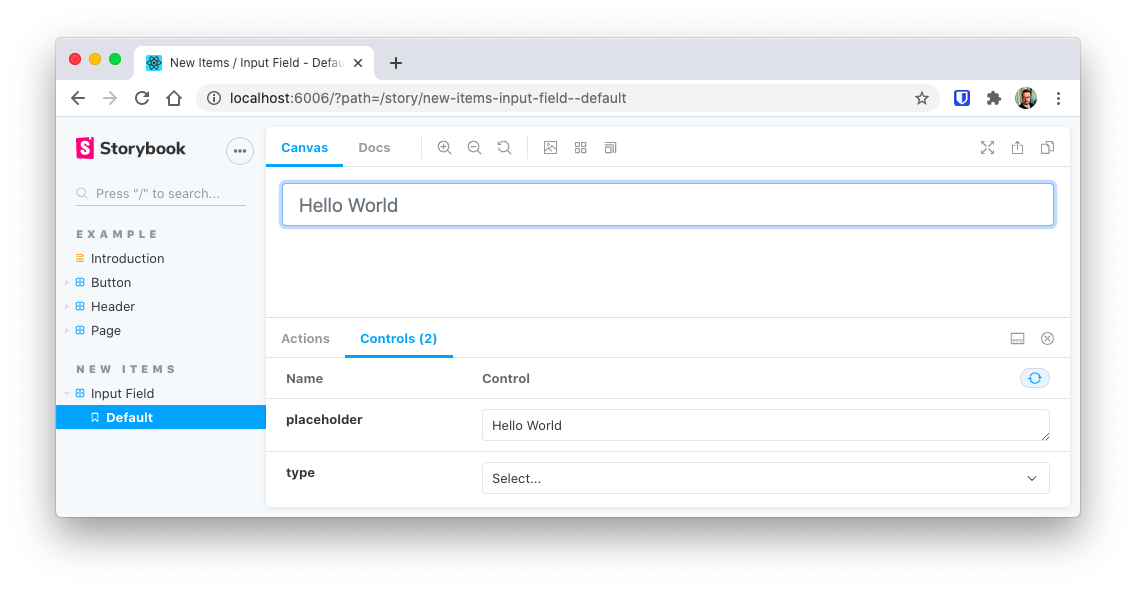
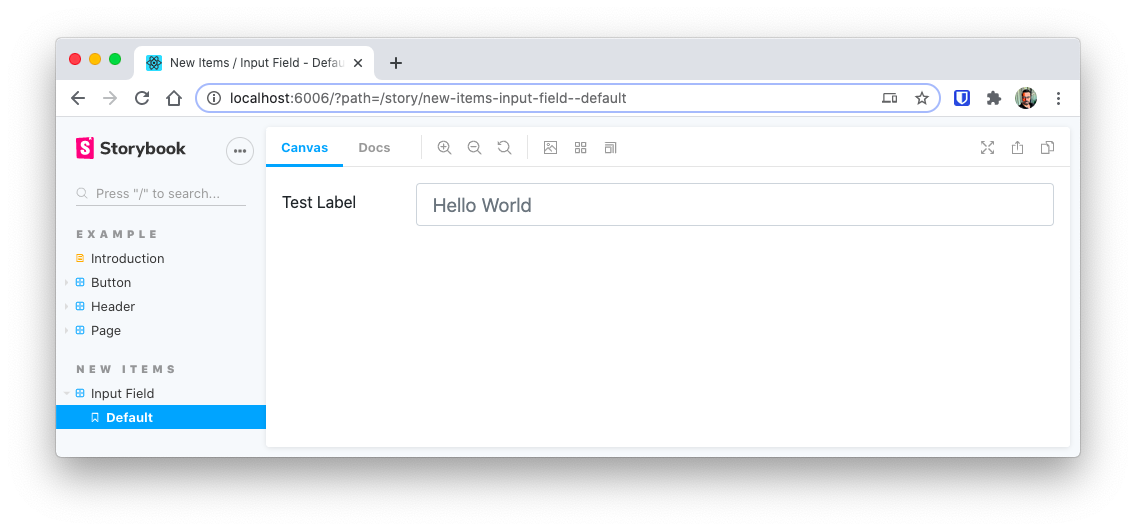
Adding decorators and argTypes on the storybook article

diff --git a/posts/react-storybook-intro-and-setup/index.md b/posts/react-storybook-intro-and-setup/index.md
@@ -15,9 +15,13 @@ That's where [Storybook](https://storybook.js.org/) enters.
 
 Storybook is a development environment and playground for creating UI components in an isolated environment **inside** your React (or Angular or Vue o Svelte) project but **outside** your application.
 
-This means that you can develop your components, style them and see the graphical outcome before you integrate them into your application. I can't think on something more useful.
+This means that you can develop your components, style them and see the graphical outcome before you integrate them into your application.
 
-Take a look at the [official documentation](https://storybook.js.org/docs/react/get-started/introduction) video on how Storybook allows you to review components in an isolated environment:
+...I can't think on something more useful.
+
+<video autoplay="" muted="" playsinline="" loop="" style="min-width: 50%; max-width: 350px; display: block; margin: 0 auto"><source src="https://media.giphy.com/media/108lJruWBp7EBO/giphy.mp4" type="video/mp4"></video>
+
+Take a look at the video from the [official documentation](https://storybook.js.org/docs/react/get-started/introduction) on how Storybook allows you to review components in an isolated environment:
 
 <video autoplay="" muted="" playsinline="" loop="" style="max-width: 100%"><source src="https://storybook.js.org/7e71705d211e17a2967606c49059e891/storybook-hero-video-optimized.mp4" type="video/mp4"></video>
 
@@ -43,6 +47,7 @@ In this article I'm going to give you a brief introduction to [Storybook](https:
 - [Global parameters](#global-parammeters)
 - [Adding external style sheets](#adding-external-style-sheets)
 - [Upgrading Storybook](#upgrading-storybook)
+- [Decorators](#decorators)
 - [Final toughs](#final-toughs)
 
 ## Project setup
@@ -60,32 +65,6 @@ yarn create react-app .
 ![](yarn-create-react-app.png)
 
 This will generate the typical React project **files**:
-
-```bash
-$ tree -I node_modules
-.
-├── README.md
-├── package.json
-├── public
-│   ├── favicon.ico
-│   ├── index.html
-│   ├── logo192.png
-│   ├── logo512.png
-│   ├── manifest.json
-│   └── robots.txt
-├── src
-│   ├── App.css
-│   ├── App.js
-│   ├── App.test.js
-│   ├── index.css
-│   ├── index.js
-│   ├── logo.svg
-│   ├── serviceWorker.js
-│   ├── setupTests.js
-└── yarn.lock
-
-4 directories, 35 files
-```
 
 ![](tree-project-start.png)
 
@@ -130,11 +109,13 @@ yarn storybook
 
 ![](yarn-run-storybook.png)
 
-This will start a **new development server** (not the same one as the react's one), that you can access in port `6006`, showing the **demo** stories that `npm sb init` created:
+This will start a **new development server** (not the same one as the react's one), that you can access on port `6006`, showing the **demo** stories that `npm sb init` created:
 
 ![](storybook-first-start.png)
 
-And you can browse individual stories by clicking on the names of each one on the left sidebar. For instance this is how the **example** story `src/stories/Header.stories.js` looks in Storybook:
+Notice how Storybook created 3 **example** stories for us, and an _Introduction_ with some shortcuts.
+
+And you can browse those test stories by clicking on the names of each one on the left sidebar. For instance this is how the **example** story `src/stories/Header.stories.js` looks in Storybook:
 
 ![](browse-individual-story.png)
 
@@ -170,7 +151,9 @@ src/stories
 1 directory, 18 files
 ```
 
-This files where created by the `npx sb init` command and the contain a bunch of components and stories. For instance, there a component called **Button** created in `src/stories/Button.js` with the corresponding story in `src/stories/Button.stories.js`
+This files where created by the `npx sb init` command and the contain a bunch of components and stories.
+
+For instance, there is a component called **Button** created in `src/stories/Button.js` with the corresponding story in `src/stories/Button.stories.js`
 
 This is the component:
 
@@ -235,7 +218,7 @@ Button.defaultProps = {
 
 In this particular component, there is also a `.css` file that corresponds to the styles apply to it. This means that story book is capable of displaying the component **with its styles**.
 
-And this are the stories that test or display that component:
+And this **are** the stories that test or display that component:
 
 ```javascript
 // src/stories/Button.stories.js
@@ -290,6 +273,8 @@ So, in conclusion:
 - Each `.stories.js` are the stories that test or display the component
 - A component can include a `.css` file and it will be displayed
 
+> Storybook looks for `.stories.js` files because that's how its configured in `.storybook/main.js`. You can instruct Storybook to look of another sufix or prefix by configuring the `stories` setting in that file.
+
 ## Create our first story
 
 Just for fun, lets create a component that displays an `<input>` field with minal styling.
@@ -336,9 +321,9 @@ The style file is just a simple CSS file with the custom styles of the component
 }
 ```
 
-Take into account that if your project uses external styles like [Bootstrap](https://getbootstrap.com), [Material](https://material.io/), [Tailwind](https://tailwindcss.com), [Bulma](https://bulma.io), etc. This have to be added in the configuration file which will touch upon latter.
+> Take into account that if your project uses external styles like [Bootstrap](https://getbootstrap.com), [Material](https://material.io/), [Tailwind](https://tailwindcss.com), [Bulma](https://bulma.io), etc. This have to be added in the configuration file which I will touch upon latter.
 
-The component really has noting special. Its just an input that receives the `placeholder` and `type` _props_, and output the corresponding Html with the stiles that we created a second ago:
+The component really has noting special. Its just an input that receives the `placeholder` and `type` _props_, and output the corresponding HTML With the stiles that we created a second ago:
 
 ```javascript
 // src/components/input-field/input-field.js
@@ -364,7 +349,7 @@ export default InputField
 
 Notice that there is a _class_ called `form-control` that is not included in the `.css` file. We'll be working with that class latter.
 
-Finally, we create the stories!
+**Finally, we create the stories!**
 
 Quoting the Storybook documentation, "The key ingredients (of a story) are the [default export](https://developer.mozilla.org/en-US/docs/Web/JavaScript/Reference/Statements/export#Using_the_default_export) that describes the component, and [named exports](https://developer.mozilla.org/en-US/docs/Web/JavaScript/Reference/Statements/export#Using_named_exports) that describe the stories."
 
@@ -388,7 +373,7 @@ export const InputFieldBig = () => <InputField type="big" />
 
 In the previous _stories_ example, the `default` object contains information on which component this story belongs to (`InputField`) and where in the menu should it be placed.
 
-The _consts_ `InputFieldDefault`, `InputFieldSmall`, and `InputFieldBig` are the stories we'll be displayin in storybook.
+The _const's_ `InputFieldDefault`, `InputFieldSmall`, and `InputFieldBig` are the stories we'll be displaying in storybook.
 
 Here are the results in Storybook:
 
@@ -396,7 +381,9 @@ Here are the results in Storybook:
 
 ![](input-field-big.png)
 
-Notice how Storybook converted the _camelCased_ words in actual sentences on the sidebar. Pe. It changed `InputFieldDefault` to _Input Field Default_. **Take this into account when naming your stories**.
+Notice how Storybook converted the _camelCased_ words in actual sentences on the sidebar. For instance, it changed `InputFieldDefault` to _Input Field Default_. **Take this into account when naming your stories**.
+
+**You now have enough information to create your stories in Storybook**. But there are still, are a couple of additional
 
 ## Using templates and args
 
@@ -442,11 +429,40 @@ InputFieldBig.args = {
 }
 ```
 
-This might seem a little over complicated if you are using only 3 stories. But in the next section we'll see how using `args` allows you to change a component `prop` using controls.
+This might seem a little over complicated just by looking at how to code got bigger but the result is the same. But there are several advantages of using this approach:
+
+- You can **reuse** parameters from story to story
+- Combined with `PropTypes` allow you to change `prop` values (`args`) interactively (Next section)
+- You can configure the template, an those options will get passed down to the stories
+
+You can also pass `args` in the default export like so:
+
+```javascript {4-6}
+export default {
+  title: "New Items/Input Field",
+  component: InputField,
+  args: {
+    type: "small",
+  },
+}
+```
+
+Which is a nice alternative.
+
+In the next section we'll see how using `args` allows you to change a component `prop` using controls.
 
 ## Using controls
 
-To use controls, you need to use `templates` and `args` on your stories. But you also need to use [PropTypes](https://www.npmjs.com/package/prop-types) in you components.
+To change the stories `args` interactively, you have 2 options:
+
+- Use `PropTypes` in the component
+- Use the `argTypes` in the default export
+
+Let's start by using `PropTypes`
+
+### `PropTypes` for Interactive controls
+
+I actually prefer this option, since this way, by using comments, you also get [documentation on](https://storybook.js.org/docs/react/api/argtypes) your stories.
 
 For instance, in the `InputField` component, we could specify that the `type` prop is one of "normal", "big" or "small" by using the `PropTypes.oneOf` option. And that the `placeholder` is of type `string`.
 
@@ -502,11 +518,37 @@ export const Default = Template.bind({})
 Default.args = { placeholder: "Hello World" }
 ```
 
-And let Storybook display the user a _Controls_ panel where you can change the settings
+### By using `argTypes`
+
+This is an excellent option too. Specially if you would like to manage all of your storybook settings in the **story's** `export default` object. 
+
+The downsize of this method, is that you would have to add more code to your stories instead of your components, and in the case of a refactor **you would have to make changes in both parts** and not only on your component.
+
+> I like to keep my stories as small as possible.
+
+```javascript
+// src/components/input-field/input-field.stories.js
+...
+export default {
+  title: "New Items/Input Field",
+  component: InputField,
+  argTypes: {
+    type: { control: "text" }
+  }
+}
+...
+```
+
+There are extra options on the `argTypes`, that let you _fine control_ the type and labels of the control. You can take a look at the [documentation](https://storybook.js.org/docs/react/api/argtypes) to find out about them.
+
+### Using the controls
+
+This is the great part. Storybook will display the user a _Controls_ panel where you can change the settings
 
 ![](using-controls.png)
 
 > If you don't see the panel, then type the key `A` on your keyboard, or in the menu next to the Storybook logo, slect **Show Addons**
+
 
 ## Global Parameters
 
@@ -549,6 +591,91 @@ If I wanted to do this change only on one group of _stories_ then I would have t
 ```javascript {9-13}
 // src/components/input-field/input-field.stories.js
 
+import React from "react"
+import InputField from "./input-field"
+
+export default {
+  title: "New Items/Input Field",
+  component: InputField,
+  parameters: {
+    backgrounds: {
+      values: [{ name: "WhiteBg", value: "#ffffff" }],
+    },
+  },
+}
+
+const Template = args => <InputField {...args} />
+
+export const Default = Template.bind({})
+Default.args = { placeholder: "Hello World" }
+```
+
+## Action feedback
+
+There are times where your component receives a callback and you need to know if that callback is gettings executed and how the output of tha callback looks.
+
+Well... Storybook has a solution for that also. Its called [Actions](https://storybook.js.org/docs/react/essentials/actions) and it allows you to specifya `args` that are actually functions that will get called.
+
+To tests actions, lets add a `onFocus` parameter to our `<InputField />`
+
+```javascript {3,11}
+// src/components/input-field/input-field.js
+// ...
+const InputField = ({ placeholder, type, onFocus, ...props }) => {
+  const lPlacehoder = placeholder || "Text Input"
+  const lType = type || "normal"
+  return (
+    <input
+      type="text"
+      className={`form-control input-field ${lType}`}
+      placeholder={lPlacehoder}
+      onFocus={onFocus}
+      {...props}
+    />
+  )
+}
+// ...
+```
+
+And on our `.stories.js` file we have to add a new element in our `defaults`:
+
+```javascript {11}
+// src/components/input-field/input-field.stories.js
+// ...
+export default {
+  title: "New Items/Input Field",
+  component: InputField,
+  parameters: {
+    backgrounds: {
+      values: [{ name: "WhiteBg", value: "#ffffff" }],
+    },
+  },
+  argTypes: { onFocus: { action: "Focused..." } },
+}
+// ...
+```
+
+What this does is that in our **component** we now receive a new _function_ parameter that well get triggered when the field gets focused (we called the new parameter and as the action: `onFocus`).
+
+Then, in our **story** we configured _Storybook_ to show the `Focused...` paragraph when the action `onFocused` got triggered:
+
+![](on-focus-input-field.png)
+
+And now we can see if our actions are getting triggered correctly.
+
+## Decorators
+
+Let's say that we want to test this `<input>` component, but we want to know how does it look like inside a `<div>` with a `<label>`.
+
+One approach, would be to create a new component that includes our _input_ inside such a _div_. This is not a bad idea if we actually plan to use this new component. But, not so great if we just want to test out how it looks. That's a prefect use case for [decorators](https://storybook.js.org/docs/react/writing-stories/decorators).
+
+Think of decorators as a way to **wrap your component** in another component, or simply `jsx` (like in our example) so you have a better understanding on how it will look in your final application.
+
+So lets change our `input-field-stories.js` to look like this:
+
+```javascript {15-24}
+// src/components/input-field/input-field.stories.js
+
 import React from "react";
 import InputField from "./input-field";
 
@@ -560,6 +687,17 @@ export default {
       values: [{ name: "WhiteBg", value: "#ffffff" }],
     },
   },
+  argTypes: { onFocus: { action: "Focused..." } },
+  decorators: [
+    (Story) => (
+      <div className="form-group row">
+        <label className="col-form-label col-sm-2">Test Label</label>
+        <div className="col-sm-10">
+          <Story />
+        </div>
+      </div>
+    ),
+  ],
 };
 
 const Template = (args) => <InputField {...args} />;
@@ -567,6 +705,13 @@ const Template = (args) => <InputField {...args} />;
 export const Default = Template.bind({});
 Default.args = { placeholder: "Hello World" };
 ```
+
+![](input-field-with-decorator.png)
+
+Notice that `decorators` is an array of functions, where each functions receives  a `Story` parameter. 
+
+A great use for decorators is if you are creating a component that is a `<tr>` and you need to see it inside a table.
+
 
 ## Adding external Style Sheets
 
